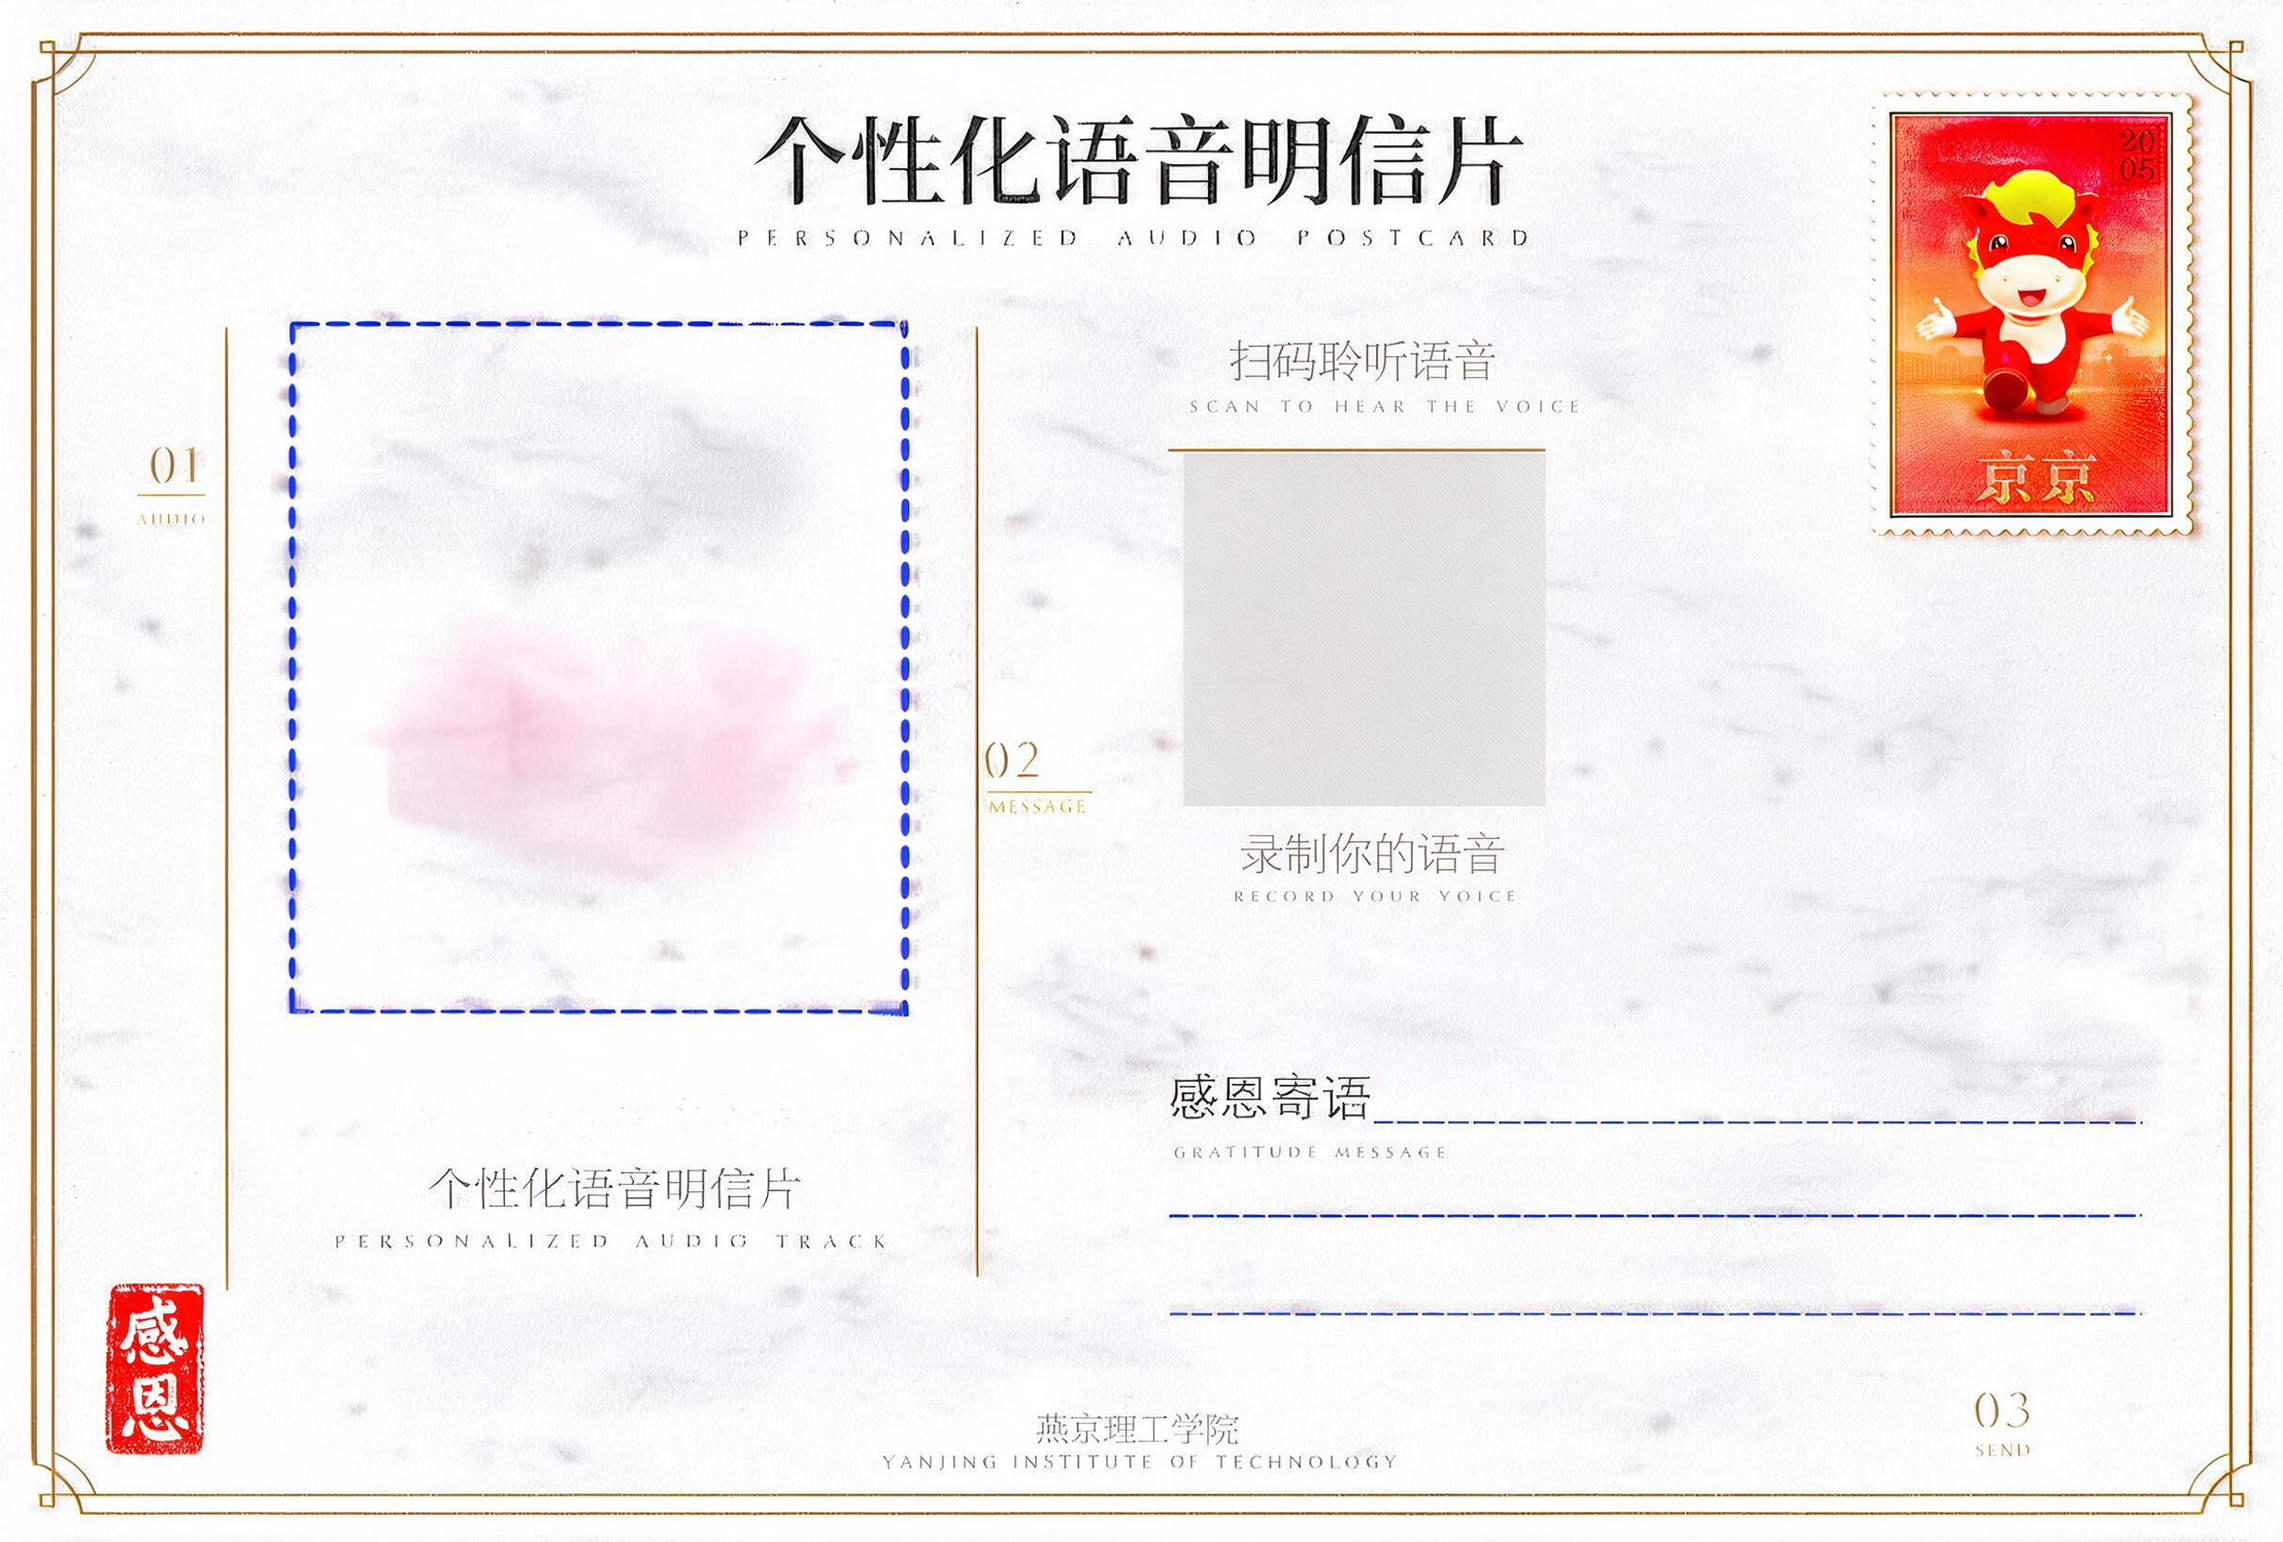
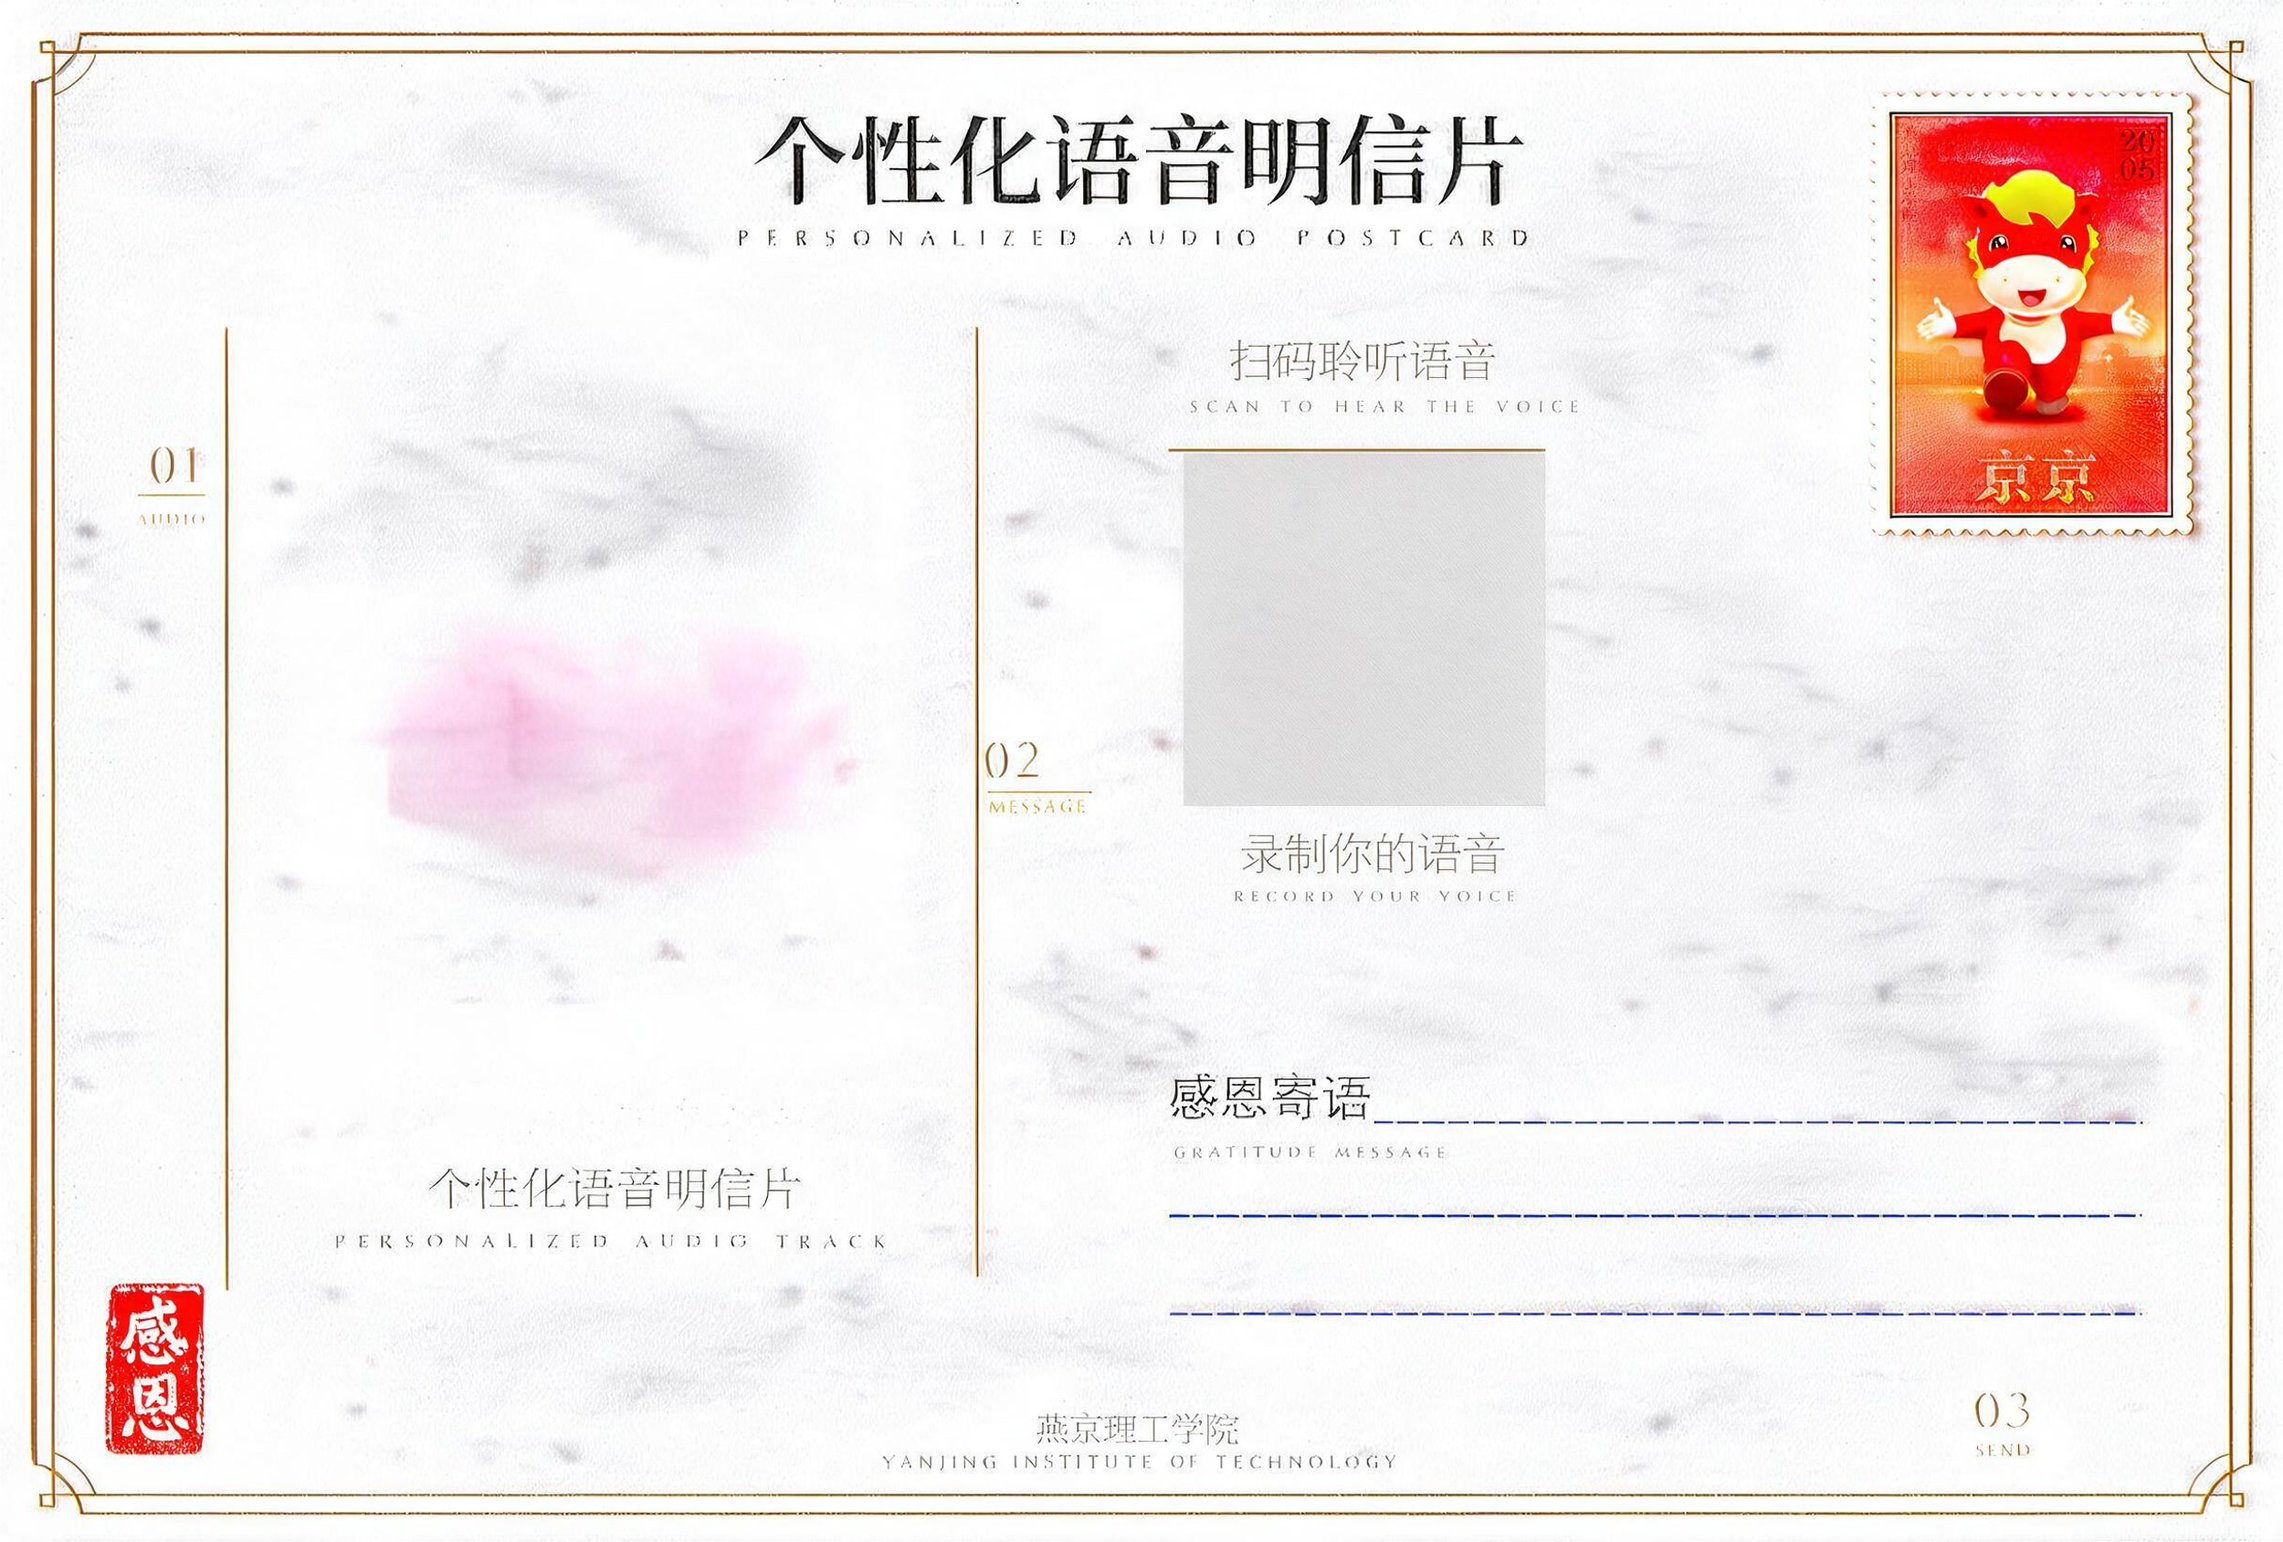
feat: swap postcard artwork and even out the image-upload options
- Replace the postcard background with the new export; landmark check showed the layout is identical (gratitude lines at the same rows, gray box within 12px), the only real change is that the printed dashed frame around the photo is gone.
- Make both image-upload cards the same size (stretch) and set the QR frame to the camera preview size 200x150.
- Show the 或 divider in black at 20px, centered between the two cards.
- Remove the skip button together with its handler: without a photo there is now no way into the postcard step.

Changed region(s): [[0.1248, 0.3079, 0.4056, 0.6773], [0.1248, 0.1847, 0.312, 0.6157], [0.3432, 0.1847, 0.4056, 0.2771]]

diff --git a/frontend/src/views/HomeView.vue b/frontend/src/views/HomeView.vue
@@ -103,10 +103,6 @@ function showCard(url) {
   step.value = 'card'
 }
 
-function skipImage() {
-  showCard('')
-}
-
 function onImageCaptured({ url }) {
   showCard(url)
 }
@@ -223,9 +219,6 @@ onUnmounted(() => {
                   </div>
                 </div>
               </div>
-              <button class="skip-btn" @click="skipImage">
-                跳过，直接生成明信片
-              </button>
             </div>
 
             <div v-else-if="step === 'card'" key="card" class="pane-content">
@@ -540,7 +533,8 @@ onUnmounted(() => {
 .upload-options {
   display: flex;
   gap: 20px;
-  align-items: flex-start;
+  /* 两侧卡片等高，视觉尺寸一致 */
+  align-items: stretch;
 }
 
 .upload-option {
@@ -568,14 +562,15 @@ onUnmounted(() => {
   display: flex;
   align-items: center;
   justify-content: center;
+  align-self: center;
   flex-shrink: 0;
   width: 40px;
-  padding-top: 70px;
 }
 
 .divider-text {
-  font-size: 13px;
-  color: var(--neutral-400);
+  font-size: 20px;
+  font-weight: 600;
+  color: #000;
 }
 
 .qr-upload {
@@ -586,7 +581,7 @@ onUnmounted(() => {
 }
 
 .qr-frame {
-  width: 150px;
+  width: 200px;
   height: 150px;
   padding: 8px;
   background: white;
@@ -605,24 +600,5 @@ onUnmounted(() => {
   color: var(--neutral-500);
   margin: 0;
   text-align: center;
-}
-
-.skip-btn {
-  display: block;
-  margin: 14px auto 0;
-  padding: 8px 20px;
-  background: transparent;
-  border: 1.5px dashed var(--neutral-300);
-  border-radius: var(--radius-full);
-  color: var(--neutral-400);
-  font-size: 13px;
-  cursor: pointer;
-  transition: all 0.2s;
-}
-
-.skip-btn:hover {
-  border-color: var(--primary-400);
-  color: var(--primary-500);
-  background: var(--primary-100);
 }
 </style>

diff --git a/docs/开发文档.md b/docs/开发文档.md
@@ -5,7 +5,7 @@
 一个在线录音 + 图片上传 + 二维码声纹打印工具：
 - 所有录音者依次使用同一台共享电脑录音，不需要用户名
 - 录音完成后自动上传到服务器，返回可公开访问的 URL
-- 录音完成后首页展示一个二维码（指向手机端图片上传页），用户扫码后在手机端上传图片；也可跳过直接生成明信片
+- 录音完成后首页展示一个二维码（指向手机端图片上传页），用户扫码后在手机端上传图片，或在电脑上拍照；两种方式任选其一后可生成明信片
 - 手机上传图片后，首页通过轮询实时同步显示图片
 - 前端生成音频二维码（指向播放页面）+ 波形图，并导出 148mm×100mm 的打印版 PDF
 - 手机播放页使用用户名记录去重后的已听数量，个人统计页可生成凭证图片
@@ -166,7 +166,7 @@ saytopic/
 
 | 路径 | 组件 | 说明 |
 |------|------|------|
-| `/` | `HomeView` | 录音页：点击录音 → 展示图片上传二维码（可跳过）→ 轮询同步图片 → 生成明信片（音频二维码 + 波形图 + 可选图片）→ 打印按钮 |
+| `/` | `HomeView` | 录音页：点击录音 → 展示图片上传（电脑拍照 / 扫码上传）→ 轮询同步图片 → 生成明信片（音频二维码 + 波形图 + 可选图片）→ 打印按钮 |
 | `/mine` | `MyStatsView` | 显示当前用户名的已听数量并生成凭证图片 |
 | `/play/:filename` | `PlayView` | 播放页：QR 码扫码后跳转，播放音频并显示当前用户听过的不同录音数量 |
 | `/upload-image/:audioFilename` | `ImageUploadView` | 图片上传页：手机扫码后跳转，支持拍照和相册上传 |
@@ -200,7 +200,7 @@ saytopic/
 - 尺寸：148mm × 100mm（标准明信片尺寸）
 - 底图已预处理为 2500 × 1689（即 148:100），CSS 与 PDF 都直接拉满，不需要裁切或拉伸补偿
 - 三个区域坐标只维护一份：脚本里的 `CARD_REGIONS`，HTML 预览通过内联 `style` 使用，打印 PDF 通过 `regionRect()` 换算成像素，避免两份参数不一致
-  - 图片区：对齐底图蓝色虚线框（`left: 12.664%`, `top: 20.833%`，宽 `27.138%`、高 `45.037%`）；虚线框只由底图印刷提供，组件不额外绘制边框
+  - 图片区：`left: 12.664%`, `top: 20.833%`，宽 `27.138%`、高 `45.037%`（坐标沿用带虚线框的旧底图）；新底图已去掉蓝色虚线框，组件也不额外绘制边框，因此照片区没有框线，`contain` 留白直接露出纸纹
   - 波形区：右列「录制你的语音」标签下方（`left: 51.85%`, `top: 58.8%`，宽 `41.94%`、高 `11.5%`，约 62mm × 11.5mm）
   - 二维码：底图灰色方块内（`left: 51.85%`, `top: 29.04%`，宽 `15.83%`、高 `23.16%`）；先铺白底再居中放二维码，保证静区完整
 - 照片按 `contain` 完整显示，不裁切；摄像头是 4:3 横图、底图框是竖框，因此照片上下会留出空白，这是「不裁剪」的必然结果
@@ -257,13 +257,13 @@ saytopic/
 - 录音完成并上传成功后（`AudioRecorder` 组件 `@uploaded` 事件）：`step = 'image'`，右栏展示双栏上传选项：
   1. **电脑拍照**：使用 `CameraCapture` 组件，通过 `getUserMedia` 打开摄像头，实时预览 + 点击拍照 + 自动上传
   2. **扫码上传**：展示二维码，指向 `/upload-image/{filename}`（手机扫码上传图片）
-  3. 两个选项之间显示「或」分隔符，下方是「跳过，直接生成明信片」按钮
+  3. 两个选项之间显示「或」分隔符（黑色、20px）；两个选项卡片等高同宽（`align-items: stretch`），预览区尺寸均为 200 × 150
 - 右栏内容切换用 `<Transition name="pane-swap" mode="out-in">`：旧内容向左滑出，新内容从右滑入
 - 轮询同步机制：
   - 进入 `image` 后每 3 秒轮询 `HEAD /api/image/{base}.{ext}`，依次尝试所有允许的图片扩展名（`.jpg`, `.jpeg`, `.png`, `.webp`）
   - 轮询到图片存在（HTTP 200）后停止轮询，将图片 URL 传入 `QrCodeCard` 并切到 `card`
-  - 点击「跳过」时同样停止轮询，只是不带图片
-  - 三种触发（拍照成功 / 轮询命中 / 跳过）都走 `showCard()`，重复触发会被 `step === 'card'` 拦住
+  - 两种触发（拍照成功 / 轮询命中）都走 `showCard()`，重复触发会被 `step === 'card'` 拦住
+  - 页面上没有「跳过」按钮，不配图就无法进入明信片阶段
 - `card` 阶段右栏显示 `QrCodeCard.vue`，传入 `audioUrl`, `filename`, `imageUrl`（如有），明信片包含音频二维码 + 波形图 + 可选图片
 - 收到 `QrCodeCard` 的 `printed` 事件后走 `resetCreation()`：清空数据、`step` 回到 `record`（电话亭滑回屏幕中央）、`recorderKey++` 重挂录音组件
 - 单屏保障：窗口小于 1200 × 700 时，`updateStageScale()` 给 `.stage` 加 `transform: scale(min(1, innerWidth / 1200, innerHeight / 700))`，防止小窗口下按钮被裁掉
@@ -323,7 +323,7 @@ python-multipart
 
 当前代码已实现共享电脑录音、打印版 PDF 打开后页面复位、可选图片关联（电脑拍照或扫码上传）、图片轮询同步、播放二维码、个人已听去重统计、凭证图片、波形绘制与 148mm × 100mm 明信片 PDF。仓库包含已听去重的最小单元测试和 Debian 部署说明，但没有端到端测试或自动化部署配置；发布及真实设备上的录音、扫码和打印结果需要在目标环境手动验收。
 
-本地启动前后端后，按以下流程验证：录音并上传 → 选择“电脑拍照”或扫码上传图片（也可跳过）→ 确认首页显示明信片 → 扫描音频二维码打开播放页 → 打开打印版 PDF 并打印。
+本地启动前后端后，按以下流程验证：录音并上传 → 选择“电脑拍照”或扫码上传图片 → 确认首页显示明信片 → 扫描音频二维码打开播放页 → 打开打印版 PDF 并打印。
 
 麦克风和摄像头依赖浏览器安全上下文。同机测试可使用 `http://localhost:5173`；使用局域网 IP、手机或公网域名联调时必须通过 HTTPS 访问，否则浏览器会拒绝媒体权限。
 

diff --git a/docs/首页单屏改造方案.md b/docs/首页单屏改造方案.md
@@ -54,7 +54,7 @@
 | step | 左栏 | 右栏 | `.split` 位移 | 右栏可见性 |
 |---|---|---|---|---|
 | `record` | 电话亭 | 空 | `translateX(calc(var(--pane-content-width) / 2 + var(--pane-gap) / 2))`（把电话亭推到屏幕正中） | `opacity: 0`，右移出屏 |
-| `image` | 电话亭 | 图片上传（电脑拍照 / 扫码上传 / 跳过） | `translateX(0)` | `opacity: 1`，归位 |
+| `image` | 电话亭 | 图片上传（电脑拍照 / 扫码上传） | `translateX(0)` | `opacity: 1`，归位 |
 | `card` | 电话亭 | 明信片 + 打印按钮 | `translateX(0)` | `opacity: 1`，归位 |
 
 右栏内容在 `image` ↔ `card` 之间用 `<Transition name="pane-swap" mode="out-in">` 切换：旧内容向左滑出，新内容从右滑入。
@@ -66,13 +66,14 @@
 | `AudioRecorder` `@uploaded` | `step = 'image'`；生成上传二维码；启动图片轮询 |
 | 电脑拍照成功（`CameraCapture` `@captured`） | 停止轮询；`step = 'card'` |
 | 图片轮询命中（`HEAD /api/image/{base}{ext}` 返回 200） | 停止轮询；`step = 'card'` |
-| 点击「跳过，直接生成明信片」 | 停止轮询；`step = 'card'` |
 | `QrCodeCard` `@printed` | 走现有 `resetCreation()`：清空数据 + `step = 'record'` + `recorderKey++` 重挂录音组件 |
+
+页面不再提供「跳过」按钮（2026-09-18 按需求删除），不配图就无法进入明信片阶段。
 
 ### 防抖（不用定时器）
 
 - `onAudioUploaded`：`step !== 'record'` 时直接返回
-- 拍照 / 跳过 / 轮询命中：`step === 'card'` 时直接返回
+- 拍照 / 轮询命中：`step === 'card'` 时直接返回
 
 ## 4. 艺术字背景
 
@@ -132,7 +133,7 @@ Google Fonts 国内镜像 `fonts.font.im` 验证结果：
 
 1. 1920×1080 下：三个阶段均无滚动条，`document.documentElement.scrollHeight === 1080`
 2. `record`：电话亭水平居中，右栏不可见
-3. `image`：电话亭在左半边，右栏显示拍照 + 扫码 + 跳过，切换过程有横向滑动动画
+3. `image`：电话亭在左半边，右栏显示拍照 + 扫码（两卡片等高同宽、预览区均为 200 × 150，「或」为黑色 20px），切换过程有横向滑动动画
 4. `card`：左栏仍为电话亭，右栏图片上传被明信片替换，明信片完整可见且打印按钮可点
 5. 打印完成后回到 `record`（电话亭重新居中）
 6. 1366×768 窗口下：无滚动，内容按比例缩小且按钮可点击
@@ -159,13 +160,14 @@ Google Fonts 国内镜像 `fonts.font.im` 验证结果：
 | 2026-09-18 | 艺术字字体自托管 8 字子集；`fonts.font.im` 不做按需切片（Noto Sans SC 单字重 10.5MB），故不整体替换现有 Google Fonts 引用 |
 | 2026-09-18 | 两栏内容改为向屏幕中间靠，空隙从 400px 改为 300px（`--pane-gap`），阶段 0 居中位移改为变量计算 |
 | 2026-09-18 | 新增校园楼宇线稿背景层：底部对齐、全屏宽、位于艺术字下层（`更换线条颜色.png` → `public/campus-building.png`） |
+| 2026-09-18 | 图片上传区：两个选项卡片等高同宽、预览区统一 200 × 150；「或」改黑色 20px；删除「跳过，直接生成明信片」按钮（不配图无法进入下一阶段） |
 
 ## 11. 实施与验证记录
 
 2026-09-18 已按本方案实现，验证方式与结果：
 
 - `pnpm build` 通过
-- headless Chrome（CDP）+ 假麦克风/假摄像头跑完整流程：录音 → 上传 → 跳过 → 明信片，三个阶段实测
+- headless Chrome（CDP）+ 假麦克风/假摄像头跑完整流程：录音 → 上传 → 明信片，三个阶段实测
 
 | 检查项 | 1920×1080 实测 |
 |---|---|
